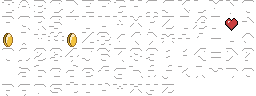
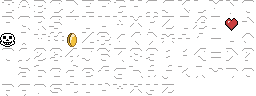
Add Topbar class and integrate GUI elements Update sprite keys and font configuration for game UI

Changed region(s): [[0.0, 0.3438, 0.0625, 0.5]]

diff --git a/src/main/java/dev/emberline/gui/topbar/Topbar.java b/src/main/java/dev/emberline/gui/topbar/Topbar.java
@@ -1,0 +1,112 @@
+package dev.emberline.gui.topbar;
+
+import dev.emberline.core.GameLoop;
+import dev.emberline.core.graphics.SpriteLoader;
+import dev.emberline.core.graphics.spritekeys.SingleSpriteKey;
+import dev.emberline.core.graphics.spritekeys.StringSpriteKey;
+import dev.emberline.core.render.CoordinateSystem;
+import dev.emberline.core.render.RenderPriority;
+import dev.emberline.core.render.RenderTask;
+import dev.emberline.core.render.Renderer;
+import dev.emberline.game.world.World;
+import dev.emberline.gui.GuiButton;
+import dev.emberline.gui.GuiLayer;
+import dev.emberline.gui.event.OpenOptionsEvent;
+import javafx.scene.canvas.GraphicsContext;
+import javafx.scene.image.Image;
+
+public class Topbar extends GuiLayer {
+    private int healt;
+    private int gold;
+    private int wave;
+    private World world;
+    private Image healtImageString;
+    private Image goldImageString;
+    private Image waveImageString;
+
+    private static class Layout {
+        // Background
+        private static final double BG_WIDTH = 11.97;
+        private static final double BG_HEIGHT = 1.33;
+        private static final double BG_Y = 0;
+        private static final double BG_X = 32 - BG_WIDTH;
+        // Options Button
+        private static final double scale_factor = 0.9;
+        private static final double BTN_OPTIONS_HEIGHT = 1 * scale_factor;
+        private static final double BTN_OPTIONS_WIDTH = 1 * scale_factor;
+        private static final double BTN_OPTIONS_X = BG_X + BG_WIDTH - BTN_OPTIONS_WIDTH * 2;
+        private static final double BTN_OPTIONS_Y = BG_Y + (BG_HEIGHT - BTN_OPTIONS_HEIGHT) / 2;
+        // Stats
+        private static final double STARTX = BG_X + 1;
+        private static final double ENDX = BTN_OPTIONS_X - 2;
+        private static final double STATS_HEIGHT = 1;
+        private static final double STATS_X_HEALT = STARTX;
+        private static final double STATS_X_GOLD = STARTX + (ENDX - STARTX) / 2;
+        private static final double STATS_X_WAVE = ENDX;
+    }
+
+    public Topbar(World world) {
+        this(Layout.BG_X, Layout.BG_Y, Layout.BG_WIDTH, Layout.BG_HEIGHT, world);
+    }
+
+    protected Topbar(double x, double y, double width, double height, World world) {
+        super(Layout.BG_X, Layout.BG_Y, Layout.BG_WIDTH, Layout.BG_HEIGHT);
+        this.world = world;
+        updateLayout();
+    }
+
+    private void updateLayout() {
+        addOptionsButton();
+        addStatsImages();
+    }
+
+    private void addStatsImages() {
+        healt = world.getPlayer().getHealt();
+        gold = world.getPlayer().getGold();
+        wave = world.getWaveManager().getCurrentWaveIndex() + 1;
+        healtImageString = SpriteLoader.loadSprite(new StringSpriteKey("♥:" + healt)).image();
+        goldImageString = SpriteLoader.loadSprite(new StringSpriteKey("$:" + gold)).image();
+        waveImageString = SpriteLoader.loadSprite(new StringSpriteKey("☠:" + wave)).image();
+    }
+
+    private void addOptionsButton() {
+        GuiButton optionsButton = new GuiButton(Layout.BTN_OPTIONS_X, Layout.BTN_OPTIONS_Y,
+                Layout.BTN_OPTIONS_WIDTH, Layout.BTN_OPTIONS_HEIGHT,
+                SpriteLoader.loadSprite(SingleSpriteKey.TOPBAR_OPTIONS_BUTTON).image());
+        optionsButton.setOnClick(() -> {
+            throwEvent(new OpenOptionsEvent(optionsButton));
+        });
+        super.buttons.add(optionsButton);
+    }
+
+    private void drawStats(GraphicsContext gc, CoordinateSystem cs, Image healtImage, Image goldImage, Image waveImage) {
+        drawStatImage(gc, cs, healtImage, Layout.STATS_X_HEALT, Layout.STATS_HEIGHT);
+        drawStatImage(gc, cs, goldImage, Layout.STATS_X_GOLD, Layout.STATS_HEIGHT);
+        drawStatImage(gc, cs, waveImage, Layout.STATS_X_WAVE, Layout.STATS_HEIGHT);
+    }
+
+    private void drawStatImage(GraphicsContext gc, CoordinateSystem cs, Image img, double x, double baseHeight) {
+        double ratio = img.getWidth() / img.getHeight();
+        double targetHeight = baseHeight * 0.65; // Scale down a bit for better appearance
+        double targetWidth = targetHeight * ratio;
+        Renderer.drawImage(img, gc, cs, x, (Layout.BG_HEIGHT - targetHeight) / 2, targetWidth, targetHeight);
+    }
+
+    @Override
+    public void render() {
+        Renderer renderer = GameLoop.getInstance().getRenderer();
+        GraphicsContext gc = renderer.getGraphicsContext();
+        CoordinateSystem guics = renderer.getGuiCoordinateSystem();
+
+        updateLayout();
+
+        renderer.addRenderTask(new RenderTask(RenderPriority.GUI, () -> {
+            // Background
+            Renderer.drawImage(SpriteLoader.loadSprite(SingleSpriteKey.TOPBAR_BACKGROUND).image(), gc, guics, Layout.BG_X, Layout.BG_Y, Layout.BG_WIDTH, Layout.BG_HEIGHT);
+            // Stats        
+            drawStats(gc, guics, healtImageString, goldImageString, waveImageString);
+        }));
+
+        super.render();
+    }
+}

diff --git a/src/main/java/dev/emberline/game/world/World.java b/src/main/java/dev/emberline/game/world/World.java
@@ -11,6 +11,7 @@ import dev.emberline.game.world.buildings.TowersManager;
 import dev.emberline.game.world.waves.IWaveManager;
 import dev.emberline.game.world.waves.WaveManagerWithStats;
 import dev.emberline.gui.event.GuiEventListener;
+import dev.emberline.gui.topbar.Topbar;
 import javafx.scene.input.InputEvent;
 
 import java.io.Serializable;
@@ -30,11 +31,11 @@ public class World implements GameState, Serializable {
     private final Statistics statistics;
     // HitListener
     private final ProjectileHitListener projectileHitListener;
-
-    private GuiEventListener listener;
     
     // Player
     private final Player player;
+
+    private final Topbar topbar;
 
     public World() {
         this.statistics = new Statistics(this);
@@ -45,10 +46,15 @@ public class World implements GameState, Serializable {
         this.projectileHitListener = new ProjectileHitListener(enemiesManager);
         this.player = new Player(this);
         this.worldRenderComponent = new WorldRenderComponent(waveManager);
+        this.topbar = new Topbar(this);
     }
 
     public Player getPlayer() {
         return player;
+    }
+
+    public Topbar getTopbar() {
+        return topbar;
     }
     
     public ProjectilesManager getProjectilesManager() {
@@ -75,10 +81,6 @@ public class World implements GameState, Serializable {
         return statistics;
     }
 
-    public void setListener(GuiEventListener listener) {
-        this.listener = listener;
-    }
-
     @Override
     public void update(long elapsed) {
         projectilesManager.update(elapsed);
@@ -96,6 +98,7 @@ public class World implements GameState, Serializable {
         projectilesManager.render();
         worldRenderComponent.render();
         waveManager.render();
+        topbar.render();
     }
 
     @Override

diff --git a/src/main/java/dev/emberline/game/GameRoot.java b/src/main/java/dev/emberline/game/GameRoot.java
@@ -36,7 +36,7 @@ public class GameRoot implements Inputable, Updatable, Renderable, GuiEventListe
         mainMenu.setListener(this);
         options.setListener(this);
         world.getPlayer().setListener(this);
-        world.setListener(this);
+        world.getTopbar().setListener(this);
     }
 
     @Override
@@ -64,9 +64,7 @@ public class GameRoot implements Inputable, Updatable, Renderable, GuiEventListe
             handleOpenOptionsEvent(openOptionsEvent);
         } else if (event instanceof CloseOptionsEvent closeOptionsEvent) {
             handleCloseOptionsEvent(closeOptionsEvent);
-        } else if (event instanceof ExitGameEvent exitGameEvent) {
-            handleExitGameEvent(exitGameEvent);
-        }
+        } 
     }
 
     @Override

diff --git a/src/main/java/dev/emberline/core/graphics/spritekeys/SingleSpriteKey.java b/src/main/java/dev/emberline/core/graphics/spritekeys/SingleSpriteKey.java
@@ -48,5 +48,11 @@ public enum SingleSpriteKey implements SpriteKey {
     FOG_TOP_LEFT,
     FOG_TOP_RIGHT,
     FOG_BOTTOM_LEFT,
-    FOG_BOTTOM_RIGHT;
+    FOG_BOTTOM_RIGHT,
+    // In game gui
+    TOPBAR_BACKGROUND,
+    TOPBAR_OPTIONS_BUTTON,
+    // Game Over
+    GAME_OVER_BACKGROUND,
+    GAME_OVER
 }
